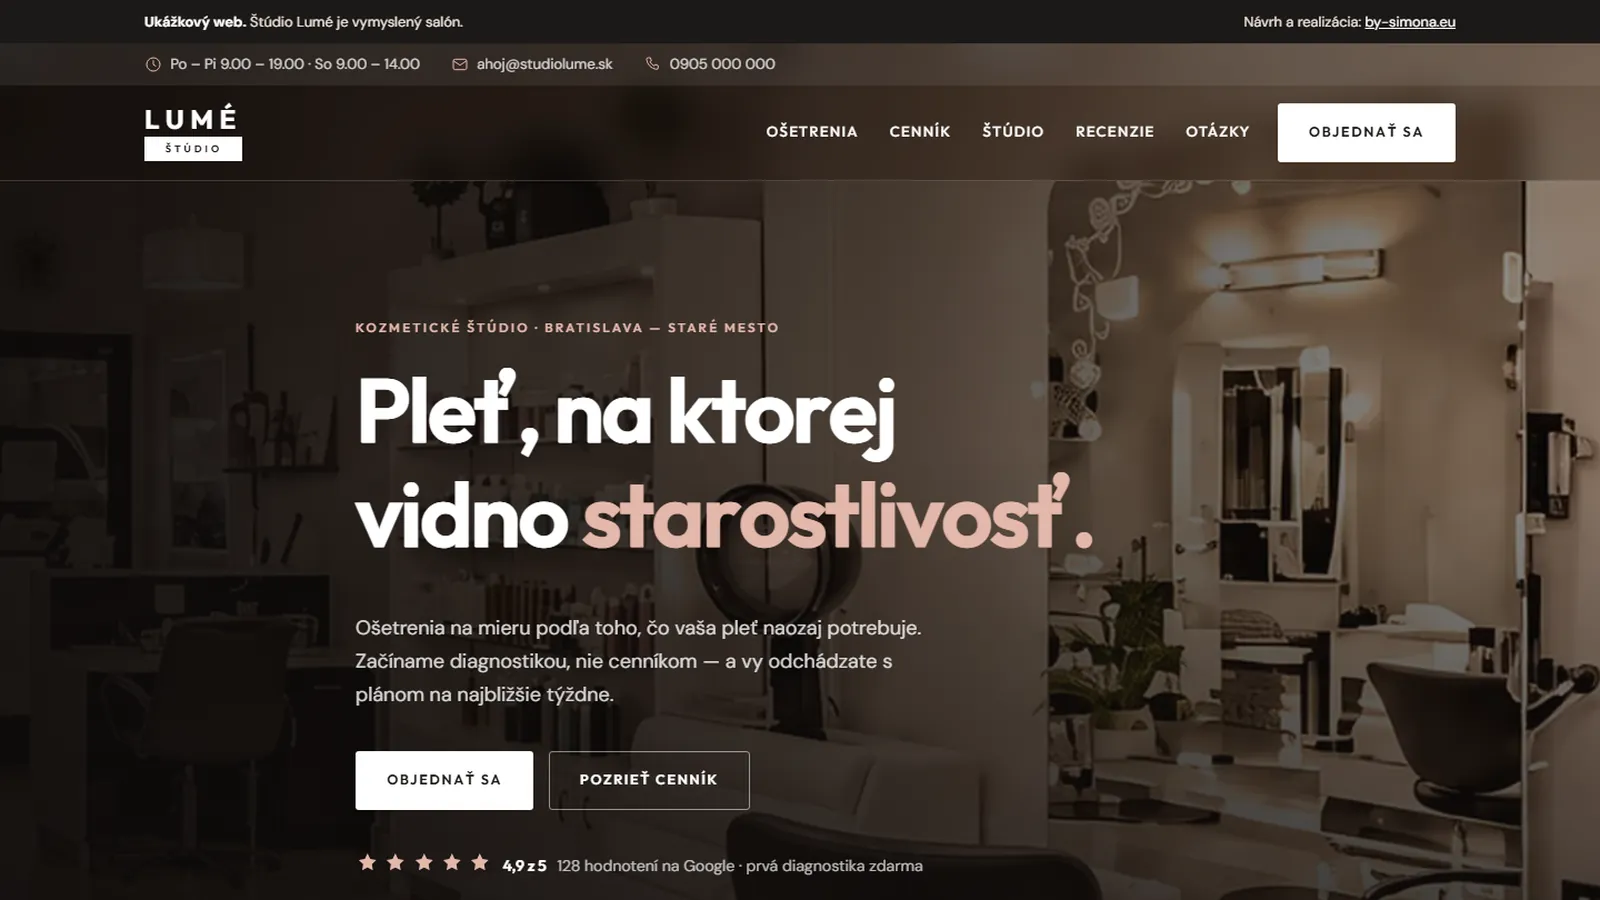
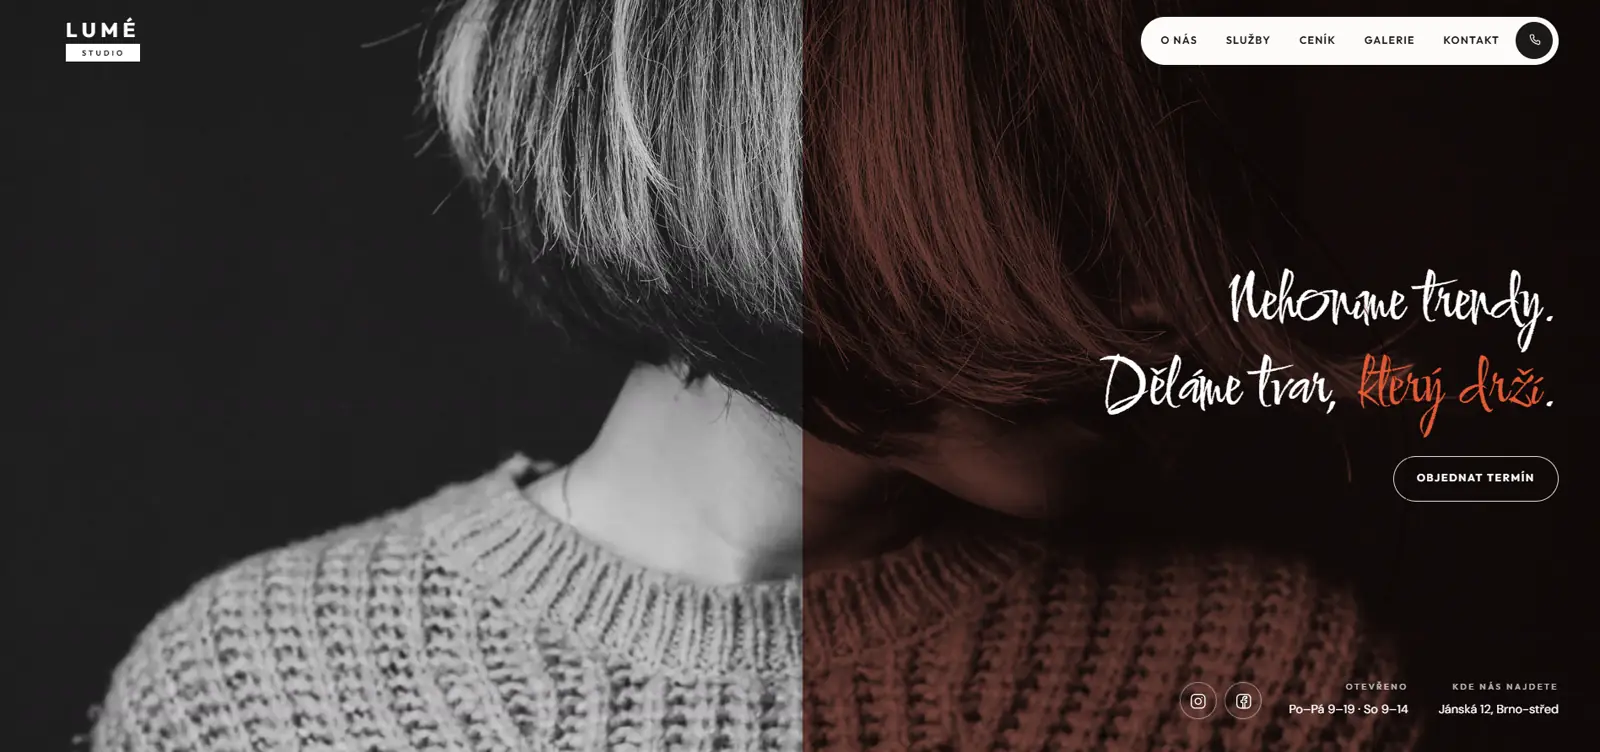
Novy nahlad Studio Lume a oprava vysky stranky v ukazke
Nahlad je nova snimka aktualnej ukazky, 1600x752, webp q72, 73,8 kB.
Nadpis, tlacidlo aj navigacia sedia na snimke vpravo, preto sa fotka
v karte drzi vpravo, opacne nez Shades.

lume.js: svg s vlasom je absolutne, ale svojou vyskou predlzuje stranku,
takze si pri meraní scrollHeight ratalo samo seba. Po zuzeni okna zostala
stranka natiahnuta na starsiu, vyssiu hodnotu a pod patickou ostalo
prazdne miesto. Pred meranim sa svg zlozi na nulu a ResizeObserver uz
porovnava vysku body, do ktorej sa absolutne svg nepocita.

diff --git a/ukazky/studio-lume/lume.js b/ukazky/studio-lume/lume.js
@@ -241,11 +241,20 @@
   let target = 0;
   let current = 0;
   let raf = 0;
+  let bodyH = 0;
 
   const build = () => {
+    /*
+     * Pred meraním sa svg musí zložiť na nulu. Je síce absolútne, ale svojou
+     * výškou si predlžuje stránku, takže by si tu meralo samo seba: po zúžení
+     * okna by stránka zostala natiahnutá na starú výšku a pod pätičkou by
+     * ostalo prázdne miesto.
+     */
+    svg.style.height = "0px";
     const w = document.documentElement.clientWidth;
     const h = document.documentElement.scrollHeight;
     svg.style.height = h + "px";
+    bodyH = document.body.offsetHeight;
     svg.setAttribute("viewBox", `0 0 ${w} ${h}`);
     const a = strand(w, h, 0, 0, 1);
     const b = strand(w, h, 5, 0.35, 0.9);
@@ -281,8 +290,9 @@
 
   build();
   window.addEventListener("scroll", onScroll, { passive: true });
+  // body si do svojej výšky absolútne svg neráta, preto sa porovnáva ono
   new ResizeObserver(() => {
-    if (Math.abs(document.documentElement.scrollHeight - geo.h) > 4) build();
+    if (Math.abs(document.body.offsetHeight - bodyH) > 4) build();
   }).observe(document.body);
   window.addEventListener("resize", build);
 })();

diff --git a/styles.css b/styles.css
@@ -1358,6 +1358,7 @@ a:hover {
    * Shades má ale logo aj názov tesne pri ľavom okraji a stredový orez ich
    * odreže, preto sa táto fotka drží vľavo a uberá sa len sprava.
    */
+  /* Lumé to má naopak: nadpis, tlačidlo aj navigácia sedia vpravo */
 }
 .shot img {
   display: block;
@@ -1369,6 +1370,10 @@ a:hover {
 .shot img[src*=shades-lounge-bar] {
   -o-object-position: left center;
      object-position: left center;
+}
+.shot img[src*=studio-lume] {
+  -o-object-position: right center;
+     object-position: right center;
 }
 
 .glare {

diff --git a/prace.html b/prace.html
@@ -182,7 +182,7 @@
                   <img
                     src="assets/studio-lume.webp"
                     width="1600"
-                    height="900"
+                    height="752"
                     alt="Náhľad ukážkového webu pre kaderníctvo Studio Lumé"
                     loading="lazy"
                   />

diff --git a/styles.scss b/styles.scss
@@ -1505,6 +1505,11 @@ a {
   img[src*="shades-lounge-bar"] {
     object-position: left center;
   }
+
+  /* Lumé to má naopak: nadpis, tlačidlo aj navigácia sedia vpravo */
+  img[src*="studio-lume"] {
+    object-position: right center;
+  }
 }
 
 .glare {
